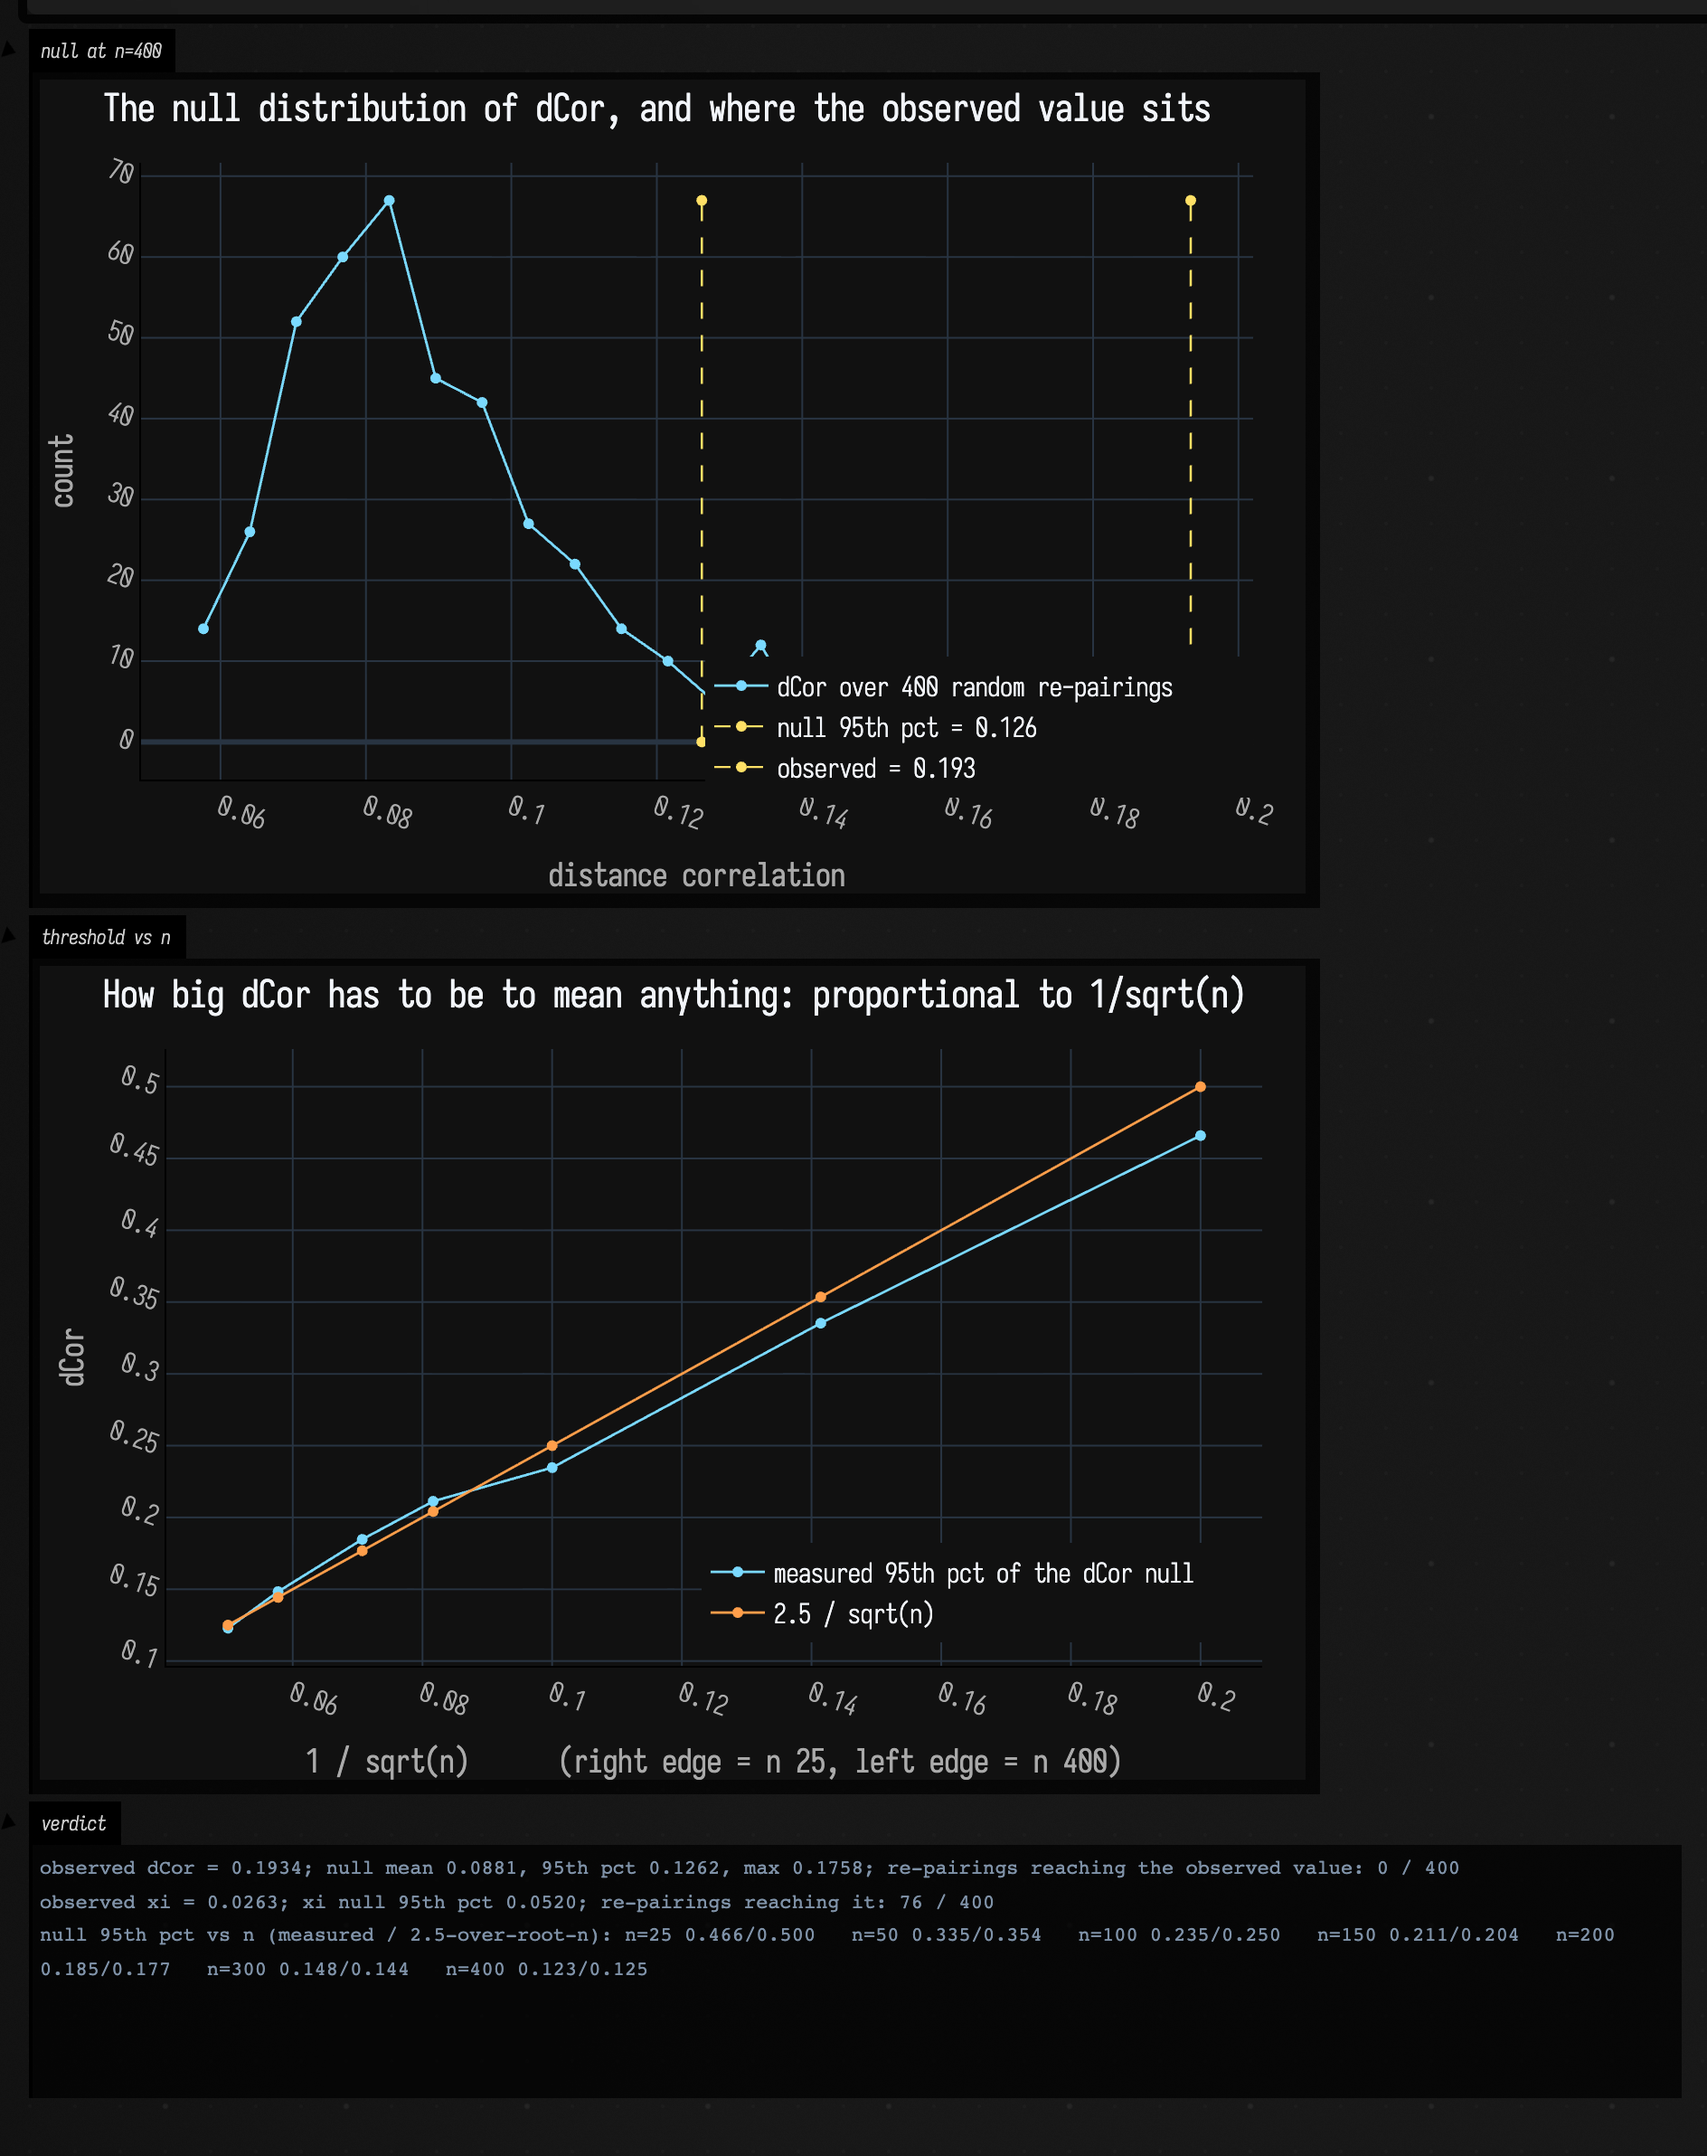
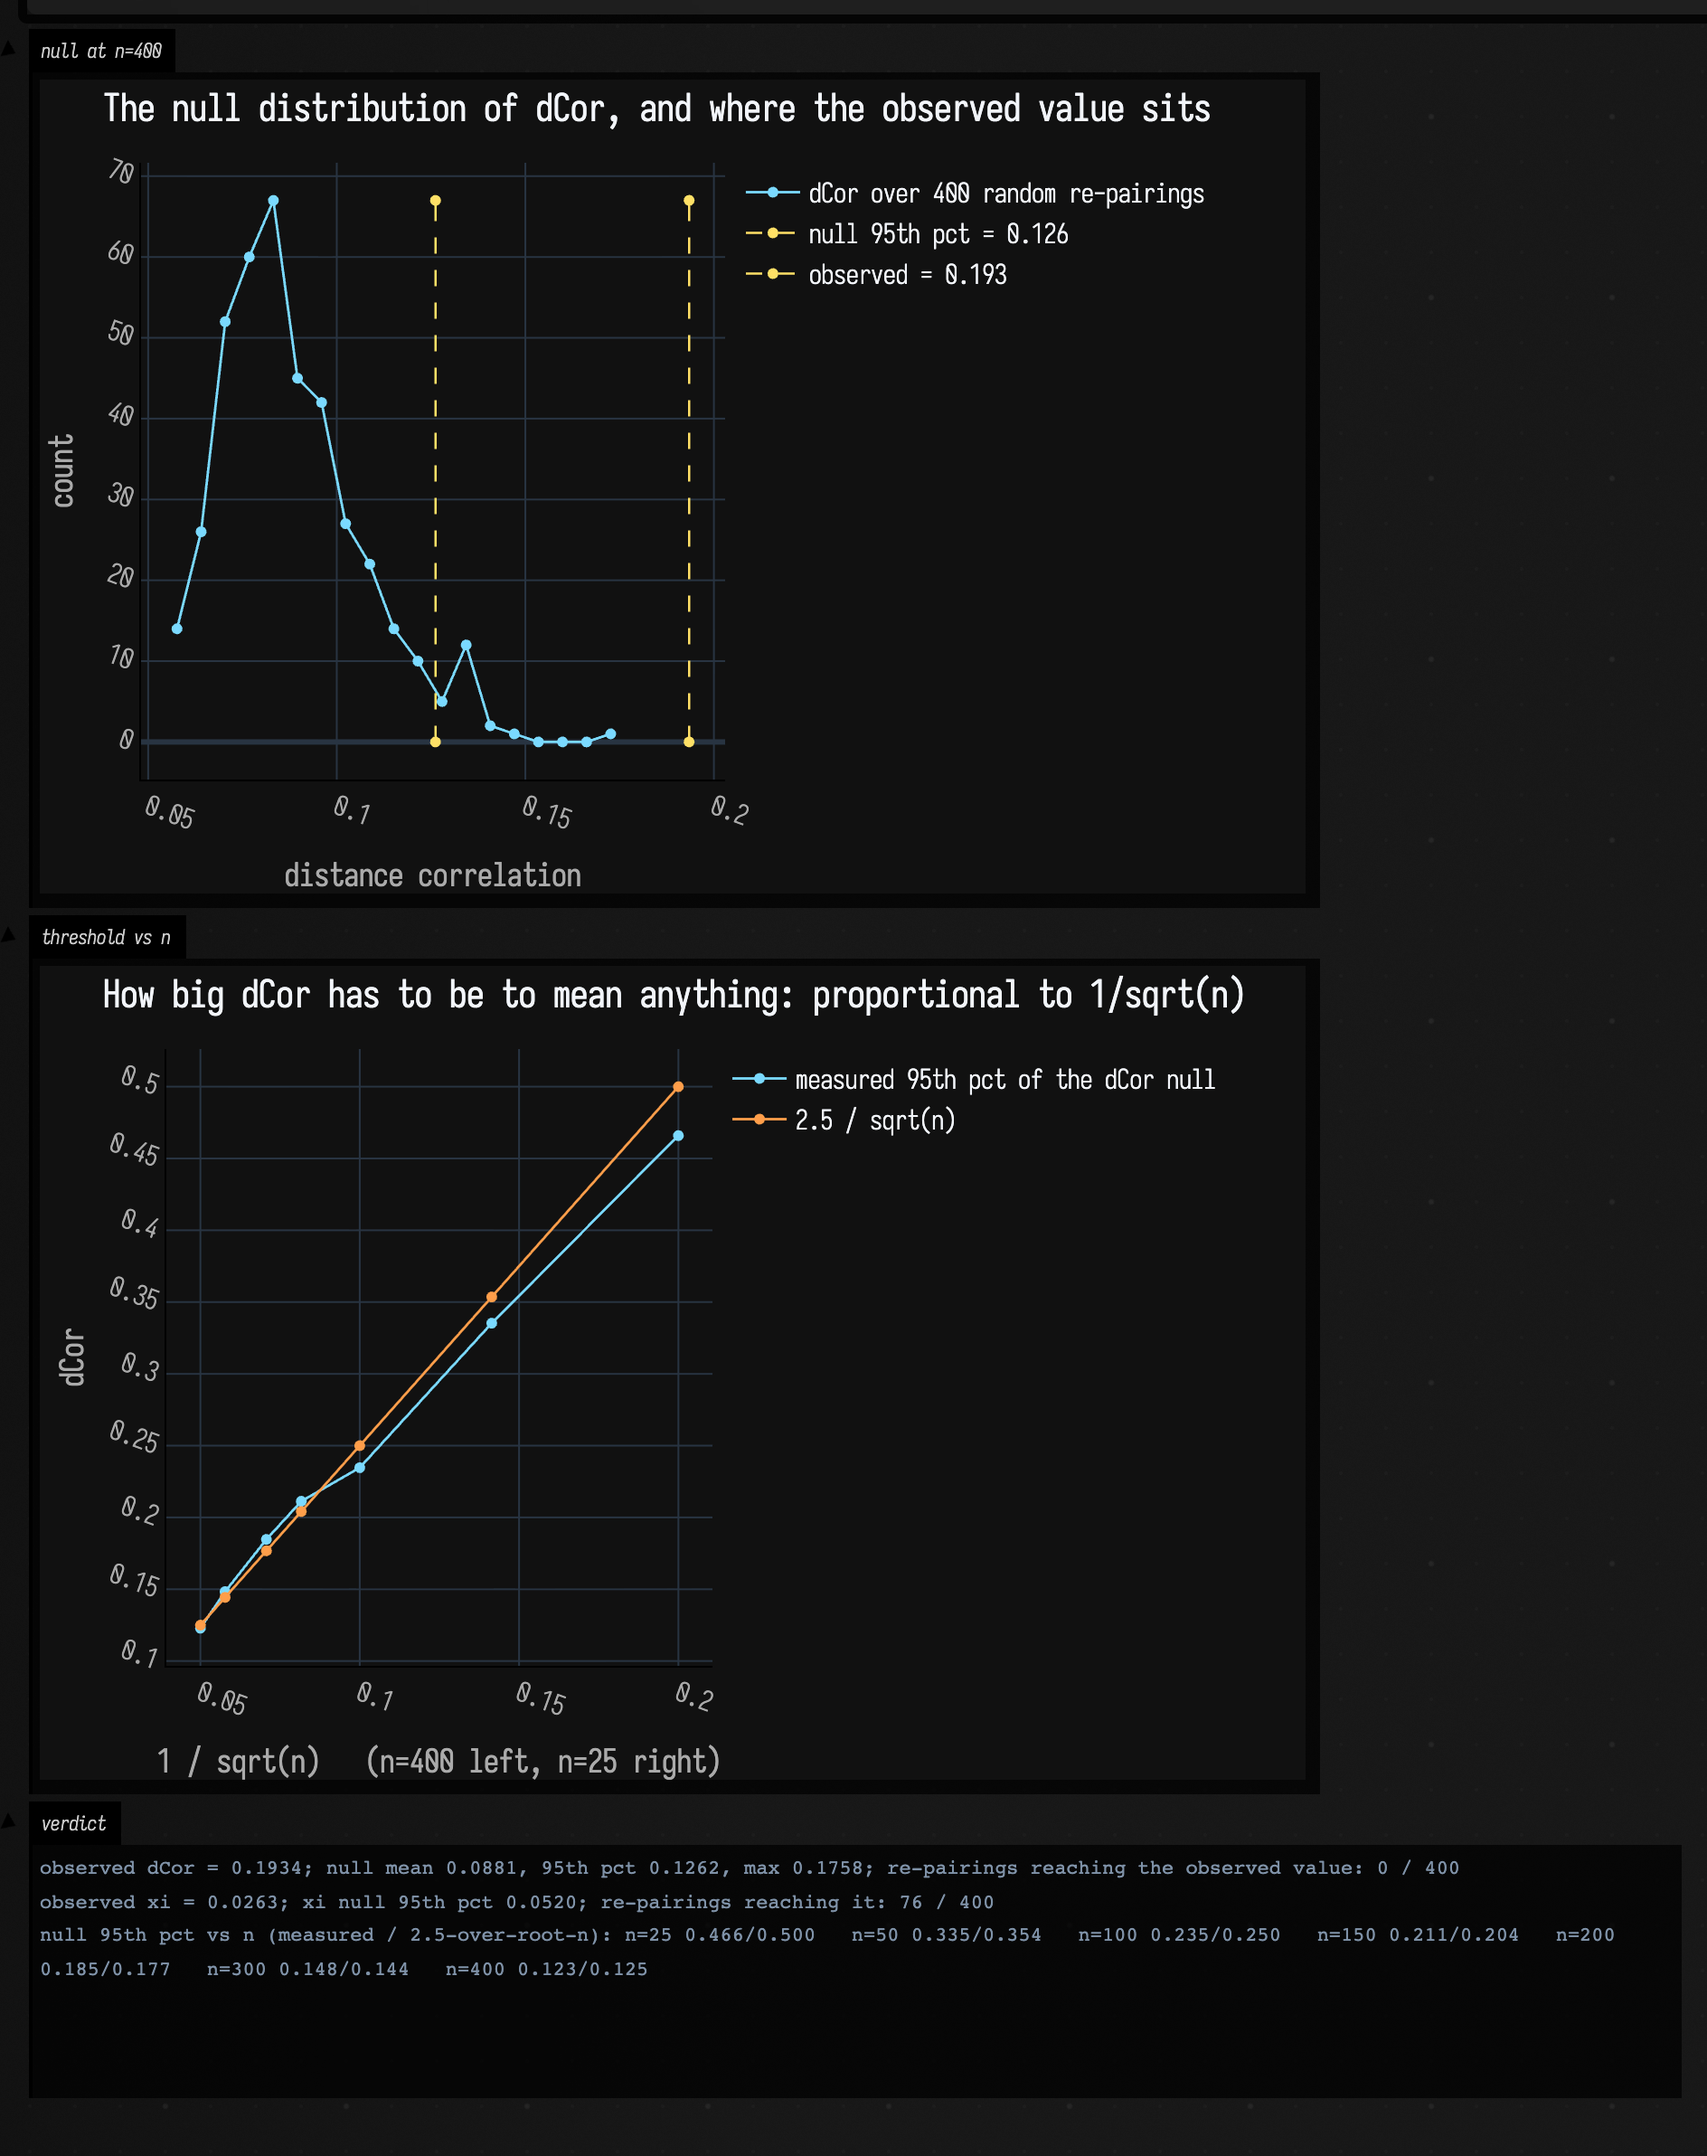
docs(stats): three figures gain the data the legend was covering
Re-captures null_distribution.png, rolling_regime.png and quantile_warp.png through the
docs pipeline after the legend moved outside the plot area. The first is the one that
matters: the null distribution's descending right tail, and the gap between the 95th
percentile and the observed 0.193, were both under the legend box, so the figure did not
show the thing the section argues. It does now.

The other three figures on the page are deliberately not re-committed. The capture
auditor classifies dependence_grid.png as jitter and summary_card.png as
nondeterministic, and histogram_rule.png only changed height (992 -> 936 px, trimming
empty padding — this page has one of the known unstable `capture="box"` heights). None
of them is stale, so re-committing them would be churn.

Prose, three corrections:

  - the `1/sqrt(n)` axis comment cited the legend workaround it no longer needs, and a
    now-dead plotly.kt line number. The remaining reason — a straight line through the
    origin beats a hyperbola — was always the better one and is the only one left.
  - that plot's x-axis title was long enough to be clipped once the legend narrowed the
    plot area, so it is shorter.
  - the rolling figure's alt text said absolute Pearson "barely moves", which the body
    text three lines below contradicts: it moves 0.133 -> 0.230. The alt text now says
    what the figure actually shows, that it swings across the same band on both sides of
    the change and never separates.
[…]

diff --git a/public/docs/statistics_examples.md b/public/docs/statistics_examples.md
@@ -207,10 +207,9 @@ fun coefficients(y: DoubleArray): String {
 // Each panel is min-max rescaled into the unit square so the six share one window; SVG y grows
 // downward, so flip it to read the shapes the way the formulas are written.
 //
-// Two columns rather than three, and the reason is a `showPlaneGrid` gotcha worth knowing: its
-// grid columns are `max-content` (spatial_field.kt:471), so a long caption widens the card past
-// `cellWidth` instead of wrapping inside it. Six coefficients of caption is about 420px, so three
-// of these side by side overflow the capture viewport and the third column gets cropped away.
+// Two columns because three panels this wide do not fit the capture, and the panels are worth
+// more here than a third column would be. A caption longer than `cellWidth` now wraps inside the
+// card instead of widening it out of frame — that used to cost you a whole column.
 val window = Rect(0.0, 0.0, 1.0, 1.0)
 val frame = window.toFLine(color = vec(0.35, 0.44, 0.56, 0.5), thickness = 1.0)
 
@@ -288,10 +287,12 @@ looking, then use something else to describe what you found.
     is deterministic, reproducible, and — the property that matters — invariant to the order you
     hand the pairs over in.
 
-    Two consequences worth knowing. A **constant predictor gives exactly 0.0**, and exactly is the
-    right word: for a single tie group the numerator's expectation is `(n²−1)/3` against a
-    denominator of `n(n²−1)/3`, so the closed form is zero for every `n`. And a quantised predictor
-    — a bucketed index, an integer control value, a thresholded signal — is answered honestly:
+    Two consequences worth knowing. A **constant predictor reads 0**: for a single tie group the
+    numerator's expectation is `(n²−1)/3` against a denominator of `n(n²−1)/3`, so the closed form
+    is exactly zero for every `n`. In `Double` it is zero to within one ulp rather than bit-exact —
+    sweeping `n` = 2..400, 54 values come back non-zero, the largest of them 2.2×10⁻¹⁶ — so compare
+    it against a tolerance, not against `0.0`. And a quantised predictor — a bucketed index, an
+    integer control value, a thresholded signal — is answered honestly:
     heavy ties with a real relationship still read high (a ten-block staircase reads **0.891**),
     while heavy ties with no relationship read ~0.
 
@@ -355,10 +356,8 @@ val thresholds = sizes.map { m ->
     v[(k * 0.95).toInt()]
 }
 val fitted = sizes.map { 2.5 / sqrt(it.toDouble()) }
-// Plotted against 1/sqrt(n) rather than n, for two reasons. It turns the claim into a straight
-// line through the origin, which is a much stronger thing to see than a hyperbola. And it puts the
-// tail in the top right: `darkMode` anchors the legend to the *lower* right (plotly.kt:236), where
-// it will quietly cover the last points of any decreasing series.
+// Plotted against 1/sqrt(n) rather than n: it turns the claim into a straight line through the
+// origin, which is a much stronger thing to see than a hyperbola.
 val inverseRootN = sizes.map { 1.0 / sqrt(it.toDouble()) }
 :::fold two figures
 val hist = buildHistogram(nullDcor.toList())
@@ -380,7 +379,7 @@ showSignals(
     x = inverseRootN,
     channel = "threshold vs n",
     title = "How big dCor has to be to mean anything: proportional to 1/sqrt(n)",
-    xTitle = "1 / sqrt(n)      (right edge = n 25, left edge = n 400)",
+    xTitle = "1 / sqrt(n)   (n=400 left, n=25 right)",
     yTitle = "dCor",
 )
 display(
@@ -504,7 +503,7 @@ display(
 :::endfold
 ```
 
-![Three rolling coefficients across a regime change: dCor and xi both climb after the change while rolling absolute Pearson barely moves](assets/statistics_examples/rolling_regime.png)
+![Three rolling coefficients across a regime change: dCor and xi both climb clear of the null threshold and stay there, while rolling absolute Pearson swings across the same band before and after](assets/statistics_examples/rolling_regime.png)
 
 The measured numbers, from the run above:
 
